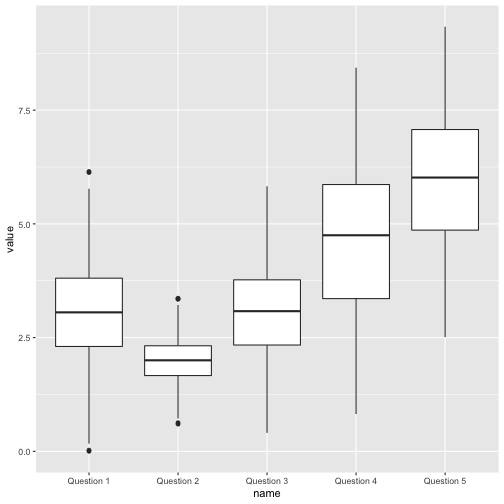
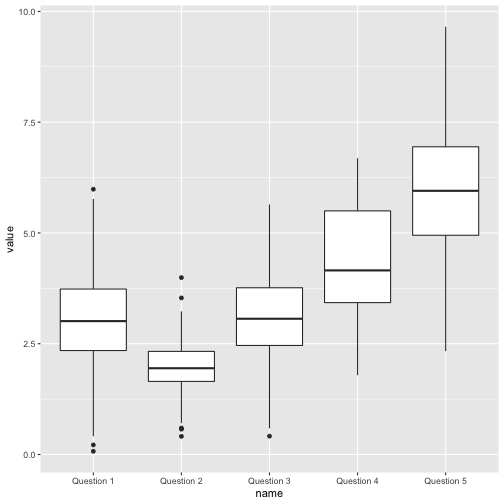
edits to slides

diff --git a/slides/presentations-week-5.html b/slides/presentations-week-5.html
@@ -93,7 +93,7 @@ state_data_final &lt;- state_data_merge %&gt;%
 
 ### Review of last week's class
 
-**TB cases*
+*TB cases*
 
 - Where is the year variable represented?
 - Where is the cases variable represented?
@@ -264,20 +264,20 @@ data
 ```
 
 ```
-## # A tibble: 1,616 x 2
+## # A tibble: 1,618 x 2
 ##    name       value
 ##    &lt;chr&gt;      &lt;dbl&gt;
-##  1 Question 1 2.96 
-##  2 Question 1 3.37 
-##  3 Question 1 4.12 
-##  4 Question 1 3.20 
-##  5 Question 1 3.96 
-##  6 Question 1 2.70 
-##  7 Question 1 3.77 
-##  8 Question 1 0.759
-##  9 Question 1 5.48 
-## 10 Question 1 3.05 
-## # … with 1,606 more rows
+##  1 Question 1 4.63 
+##  2 Question 1 4.21 
+##  3 Question 1 1.90 
+##  4 Question 1 2.66 
+##  5 Question 1 2.72 
+##  6 Question 1 3.66 
+##  7 Question 1 3.47 
+##  8 Question 1 0.778
+##  9 Question 1 3.74 
+## 10 Question 1 3.42 
+## # … with 1,608 more rows
 ```
 
 
@@ -480,7 +480,7 @@ https://www.denverpost.com/2019/05/27/cu-colorado-springs-facial-recognition-res
 
 # Random
 
-- [Analyzing educational data with open science best practices, R, and OSF](https://zoom.us/webinar/register/1216134199427/WN_OpHYNc0PQhSkOVPSB3Qaa)
+- [Analyzing educational data with open science best practices, R, and OSF](https://zoom.us/webinar/register/1216134199427/WN_OpHYNc0PQhSkOVPSB3Qaag)
 - Continue to express your work/challenges with R as precisely as possible, e.g.:
   - A data frame versus a data file
   - The name for a data frame 
